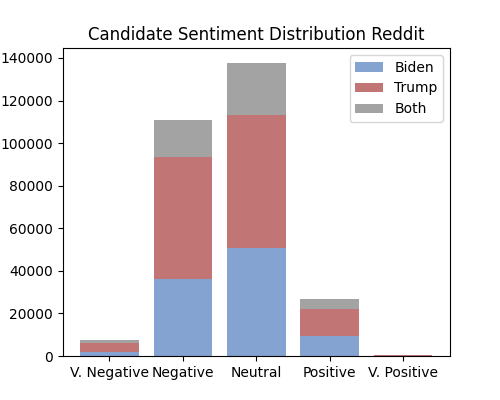
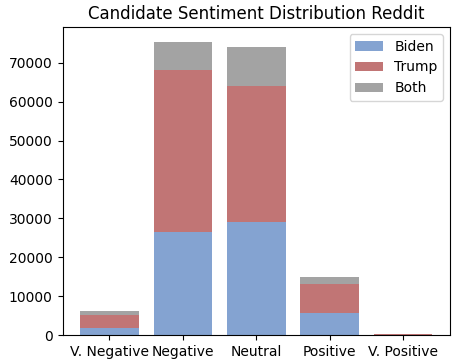
images

Changed region(s): [[0.0, 0.0, 1.0, 1.0]]

diff --git a/data-viz.py b/data-viz.py
@@ -41,26 +41,34 @@ def scale_sentiment(result, polarity_sum):
     return polarity_sum
 
 times = []
-files = ['Data/Twitter/scores/biden_scores_final.json', 'Data/Twitter/scores/trump_scores_final.json']
-polarity_sum_trump = {"V. Negative": 0, "Negative": 0, "Neutral": 0, "Positive": 0, "V. Positive": 0}
-polarity_sum_biden = {"V. Negative": 0, "Negative": 0, "Neutral": 0, "Positive": 0, "V. Positive": 0}
-polarity_sum_both = {"V. Negative": 0, "Negative": 0, "Neutral": 0, "Positive": 0, "V. Positive": 0}
+files = ['Data/Twitter/scores/biden_scores_final.json', 'Data/Twitter/scores/trump_scores_final.json', 'Data/Reddit/scores/biden_scores_final.json', 'Data/Reddit/scores/trump_scores_final.json']
+# polarity_sum_trump = {"V. Negative": 0, "Negative": 0, "Neutral": 0, "Positive": 0, "V. Positive": 0}
+polarity_sum_biden_twitter = {"V. Negative": 0, "Negative": 0, "Neutral": 0, "Positive": 0, "V. Positive": 0}
+polarity_sum_biden_reddit = {"V. Negative": 0, "Negative": 0, "Neutral": 0, "Positive": 0, "V. Positive": 0}
+# polarity_sum_both = {"V. Negative": 0, "Negative": 0, "Neutral": 0, "Positive": 0, "V. Positive": 0}
+candidates = ["trump", "biden"]
+sites = ["Twitter", "Reddit"]
+# for file in files:
+for candidate in candidates:
+    for site in sites:
+        polarity_scores = json.load(open('Data/' + site + '/scores/' + candidate + '_scores_final.json',))
+        for data_sample in polarity_scores:
+            for data in data_sample["mentions"]:
+                if "score" in data:
+                    result = data["score"]
+                else:
+                    result = data_sample["score"]
+        
+                if data["topic"] == "trump":
+                    if site == "Twitter":
+                        polarity_sum_biden_twitter = scale_sentiment(result, polarity_sum_biden_twitter)
+                    else:
+                        polarity_sum_biden_reddit = scale_sentiment(result, polarity_sum_biden_reddit)
 
-for file in files:
-    polarity_scores = json.load(open(file,))
-    for data_sample in polarity_scores:
-        for data in data_sample["mentions"]:
-            if "score" in data:
-                result = data["score"]
-            else:
-                result = data_sample["score"]
-    
-        if data["topic"] == "biden":
-            polarity_sum_biden = scale_sentiment(result, polarity_sum_biden)
-        elif data["topic"] == "trump":
-            polarity_sum_trump = scale_sentiment(result, polarity_sum_trump)
-        elif data["topic"] == "both":
-            polarity_sum_both = scale_sentiment(result, polarity_sum_both)    
+        # elif data["topic"] == "trump":
+        #     polarity_sum_trump = scale_sentiment(result, polarity_sum_trump)
+        # elif data["topic"] == "both":
+        #     polarity_sum_both = scale_sentiment(result, polarity_sum_both)    
 
         # if data_sample["mentions"][0]["topic"] == "biden":
         #     polarity_sum_biden = scale_sentiment(result, polarity_sum_biden)
@@ -69,64 +77,78 @@ for file in files:
         # elif data_sample["mentions"][0]["topic"] == "both":
         #     polarity_sum_both = scale_sentiment(result, polarity_sum_both)       
 
-trump_total = sum(polarity_sum_trump.values())
-for key, value in polarity_sum_trump.items():
+polarity_sum_biden_twitter_percent = {"V. Negative": 0, "Negative": 0, "Neutral": 0, "Positive": 0, "V. Positive": 0}
+polarity_sum_biden_reddit_percent = {"V. Negative": 0, "Negative": 0, "Neutral": 0, "Positive": 0, "V. Positive": 0}
+trump_total = sum(polarity_sum_biden_reddit.values())
+for key, value in polarity_sum_biden_reddit.items():
     if key == "V. Negative":
         print(key + ": " + str(value / trump_total * 100) + "%")
+        polarity_sum_biden_reddit_percent = {"V. Negative": value / trump_total * 100, "Negative": polarity_sum_biden_reddit_percent["Negative"], "Neutral": polarity_sum_biden_reddit_percent["Neutral"], "Positive": polarity_sum_biden_reddit_percent["Positive"], "V. Positive": polarity_sum_biden_reddit_percent["V. Positive"]}
     elif key == "Negative":
         print(key + ": " + str(value / trump_total * 100) + "%")
+        polarity_sum_biden_reddit_percent = {"V. Negative": polarity_sum_biden_reddit_percent["V. Negative"], "Negative": value / trump_total * 100, "Neutral": polarity_sum_biden_reddit_percent["Neutral"], "Positive": polarity_sum_biden_reddit_percent["Positive"], "V. Positive": polarity_sum_biden_reddit_percent["V. Positive"]}
     elif key == "Neutral":
         print(key + ": " + str(value / trump_total * 100) + "%")
+        polarity_sum_biden_reddit_percent = {"V. Negative": polarity_sum_biden_reddit_percent["V. Negative"], "Negative": polarity_sum_biden_reddit_percent["Negative"], "Neutral": value / trump_total * 100, "Positive": polarity_sum_biden_reddit_percent["Positive"], "V. Positive": polarity_sum_biden_reddit_percent["V. Positive"]}
     elif key == "Positive":
         print(key + ": " + str(value / trump_total * 100) + "%")
+        polarity_sum_biden_reddit_percent = {"V. Negative": polarity_sum_biden_reddit_percent["V. Negative"], "Negative": polarity_sum_biden_reddit_percent["Negative"], "Neutral": polarity_sum_biden_reddit_percent["Neutral"], "Positive": value / trump_total * 100, "V. Positive": polarity_sum_biden_reddit_percent["V. Positive"]}
     elif key == "V. Positive":
         print(key + ": " + str(value / trump_total * 100) + "%")
-print("Trump sents: {}\n".format(polarity_sum_trump))
-print("Trump Sum: {}\n".format(trump_total))
+        polarity_sum_biden_reddit_percent = {"V. Negative": polarity_sum_biden_reddit_percent["V. Negative"], "Negative": polarity_sum_biden_reddit_percent["Negative"], "Neutral": polarity_sum_biden_reddit_percent["Neutral"], "Positive": polarity_sum_biden_reddit_percent["Positive"], "V. Positive": value / trump_total * 100}
 
-biden_total = sum(polarity_sum_biden.values())
-for key, value in polarity_sum_biden.items():
+print("Reddit sents: {}".format(polarity_sum_biden_reddit_percent))
+print("Reddit Sum: {}\n".format(trump_total))
+
+biden_total = sum(polarity_sum_biden_twitter.values())
+for key, value in polarity_sum_biden_twitter.items():
     if key == "V. Negative":
         print(key + ": " + str(value / biden_total * 100) + "%")
+        polarity_sum_biden_twitter_percent = {"V. Negative": value / biden_total * 100, "Negative": polarity_sum_biden_twitter_percent["Negative"], "Neutral": polarity_sum_biden_twitter_percent["Neutral"], "Positive": polarity_sum_biden_twitter_percent["Positive"], "V. Positive": polarity_sum_biden_twitter_percent["V. Positive"]}
     elif key == "Negative":
         print(key + ": " + str(value / biden_total * 100) + "%")
+        polarity_sum_biden_twitter_percent = {"V. Negative": polarity_sum_biden_twitter_percent["V. Negative"], "Negative": value / biden_total * 100, "Neutral": polarity_sum_biden_twitter_percent["Neutral"], "Positive": polarity_sum_biden_twitter_percent["Positive"], "V. Positive": polarity_sum_biden_twitter_percent["V. Positive"]}
     elif key == "Neutral":
         print(key + ": " + str(value / biden_total * 100) + "%")
+        polarity_sum_biden_twitter_percent = {"V. Negative": polarity_sum_biden_twitter_percent["V. Negative"], "Negative": polarity_sum_biden_twitter_percent["Negative"], "Neutral": value / biden_total * 100, "Positive": polarity_sum_biden_twitter_percent["Positive"], "V. Positive": polarity_sum_biden_twitter_percent["V. Positive"]}
     elif key == "Positive":
         print(key + ": " + str(value / biden_total * 100) + "%")
+        polarity_sum_biden_twitter_percent = {"V. Negative": polarity_sum_biden_twitter_percent["V. Negative"], "Negative": polarity_sum_biden_twitter_percent["Negative"], "Neutral": polarity_sum_biden_twitter_percent["Neutral"], "Positive": value / biden_total * 100, "V. Positive": polarity_sum_biden_twitter_percent["V. Positive"]}
     elif key == "V. Positive":
         print(key + ": " + str(value / biden_total * 100) + "%")
-print("Biden sents: {}\n".format(polarity_sum_biden))
-print("Biden Sum: {}\n".format(biden_total))
+        polarity_sum_biden_twitter_percent = {"V. Negative": polarity_sum_biden_twitter_percent["V. Negative"], "Negative": polarity_sum_biden_twitter_percent["Negative"], "Neutral": polarity_sum_biden_twitter_percent["Neutral"], "Positive": polarity_sum_biden_twitter_percent["Positive"], "V. Positive": value / biden_total * 100}
 
-both_total = sum(polarity_sum_both.values())
-for key, value in polarity_sum_both.items():
-    if key == "V. Negative":
-        print(key + ": " + str(value / both_total * 100) + "%")
-    elif key == "Negative":
-        print(key + ": " + str(value / both_total * 100) + "%")
-    elif key == "Neutral":
-        print(key + ": " + str(value / both_total * 100) + "%")
-    elif key == "Positive":
-        print(key + ": " + str(value / both_total * 100) + "%")
-    elif key == "V. Positive":
-        print(key + ": " + str(value / both_total * 100) + "%")
-print("Both sents: {}\n".format(polarity_sum_both))
-print("Both Sum: {}\n".format(both_total))
+print("Twitter sents: {}".format(polarity_sum_biden_twitter_percent))
+print("Twitter Sum: {}\n".format(biden_total))
 
-names = list(polarity_sum_trump.keys())
-values_trump = list(polarity_sum_trump.values())
-values_biden = list(polarity_sum_biden.values())
-values_both = list(polarity_sum_both.values())
+# both_total = sum(polarity_sum_both.values())
+# for key, value in polarity_sum_both.items():
+#     if key == "V. Negative":
+#         print(key + ": " + str(value / both_total * 100) + "%")
+#     elif key == "Negative":
+#         print(key + ": " + str(value / both_total * 100) + "%")
+#     elif key == "Neutral":
+#         print(key + ": " + str(value / both_total * 100) + "%")
+#     elif key == "Positive":
+#         print(key + ": " + str(value / both_total * 100) + "%")
+#     elif key == "V. Positive":
+#         print(key + ": " + str(value / both_total * 100) + "%")
+# print("Both sents: {}\n".format(polarity_sum_both))
+# print("Both Sum: {}\n".format(both_total))
+
+names = list(polarity_sum_biden_twitter_percent.keys())
+values_trump = list(polarity_sum_biden_reddit_percent.values())
+values_biden = list(polarity_sum_biden_twitter_percent.values())
+# values_both = list(polarity_sum_both.values())
 
 fig, axs = plt.subplots(1, 1, figsize=(5, 4), sharey=True)
-axs.bar(names, values_biden, color=(0.2, 0.4, 0.7, 0.6), label="Biden")
-axs.bar(names, values_trump, color=(0.6, 0.1, 0.1, 0.6), bottom=values_biden, label="Trump")
-values_trump = np.array(values_trump)
-values_biden = np.array(values_biden)
-axs.bar(names, values_both, color=(0.4, 0.4, 0.4, 0.6), bottom=values_trump+values_biden, label="Both")
+axs.bar(names, values_biden, color=(0.2, 0.4, 0.7, 0.6), label="Twitter")
+axs.bar(names, values_trump, color=(0.6, 0.1, 0.1, 0.6), bottom=values_biden, label="Reddit")
+# values_trump = np.array(values_trump)
+# values_biden = np.array(values_biden)
+# axs.bar(names, values_both, color=(0.4, 0.4, 0.4, 0.6), bottom=values_trump+values_biden, label="Both")
 axs.legend()
 
-plt.title('Candidate Sentiment Distribution Twitter')
+plt.title('Sentiment Distribution Percentage Trump')
 
 plt.show()
